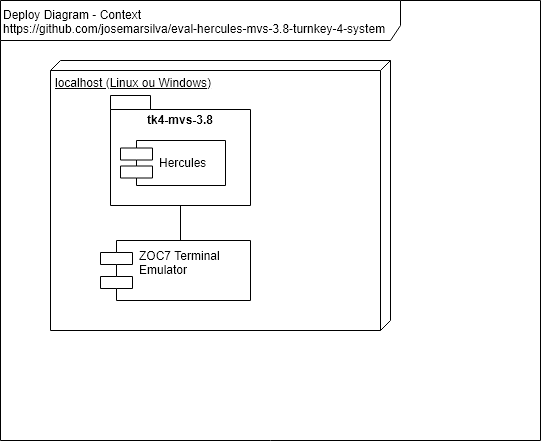
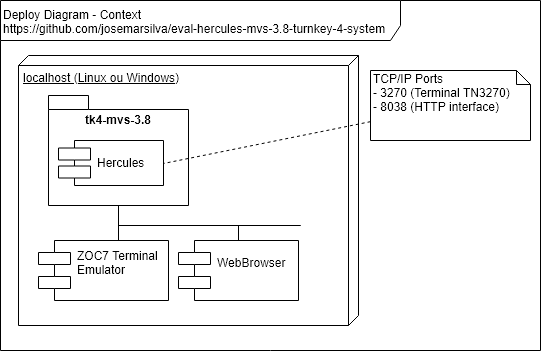
.

diff --git a/README.md b/README.md
@@ -8,6 +8,7 @@ Este projeto contém avaliação do pacote **Hercules** __mainframe emulator__ c
   * [Windows](#321-guia-de-instalação-windows)
   * [Linux](#322-guia-de-instalação-linux)
   * [Pacote de aplicações opcionais CBT DASD](#323-pacote-de-aplicações-opcionais-CBT-DASD)
+  * [Instalação Emulador Terminal ZOC TN3270](#324-instalação-emulador-terminal-zoc-tn3270)
 
 ---
 ## 2. Documentação
@@ -85,6 +86,7 @@ mvs.bat
 herc =====> exit
 ```
 
+---
 ### 3.2.2. Guia de Instalação Linux
 
 #### a. Leitura pre instalação
@@ -150,7 +152,7 @@ echo Executando mvs
 herc =====> exit
 ```
 
-
+---
 ### 3.2.3. Pacote de aplicações opcionais CBT DASD
 
 * Faça download do pacote opcional **tk4-cbt.zip** na página do [TK4](http://wotho.ethz.ch/tk4-/) ou diretamente por este [link de dowload](http://wotho.ethz.ch/tk4-/tk4-cbt.zip). 
@@ -178,8 +180,20 @@ mv /opt/tk4-_v1.00_current/conf/cbt_dasd.cnf /opt/tk4-_v1.00_current/conf/cbt_da
 cp /opt/tk4-cbt/conf/cbt_dasd.cnf /opt/tk4-_v1.00_current/conf
 ```
 
+
+---
+#### 3.2.4. Instalacao Emulador Terminal ZOC TN3270
+
+* Faça o download e instale o emulador de terminal https://www.emtec.com/zoc/
+
+
+---
 ### 3.3. Guia de Configuração
 
 * Em `/opt/tk4-cbt/conf/tk4-.cnf` encontra-se o principal arquivo de configuração do Hercules
 * Certifique-se que as portas TCP/IP **3270** e **8038** e **3505** estarão disponíveis para o Hercules quando ele subir
 
+---
+### 3.4. Guia de Demonstração
+
+* Credenciais do TSO: `herc01/CUL8TR`
